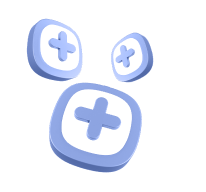
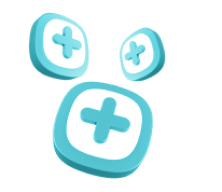
Adjust Scan QR Code screen according to the spec

Changed region(s): [[0.1165, 0.0625, 0.7573, 0.9375]]

diff --git a/src/pages/ScanQRCode/ScanQRCode.jsx b/src/pages/ScanQRCode/ScanQRCode.jsx
@@ -7,7 +7,7 @@ import useQrCode from '../../hooks/qrCode';
 import PageBase from '../PageBase/PageBase';
 import CameraContainer from './components/CameraContainer';
 import ResultView from './components/ResultView';
-import Button from '../../components/Button/Button';
+import CancelButton from '../../components/CancelButton';
 
 import AddImage from './assets/AddImage.png';
 
@@ -35,16 +35,16 @@ function ScanQRCode() {
         <Image className="w-52 -ml-4" source={AddImage} />
         <View className="w-36 mt-8">
           <Text className="text-3xl font-bold">
-            <Text className="text-dull-lavender">Scan{'\r\n'}</Text>QR Code
+            <Text className="text-pacific-blue">Scan{'\r\n'}</Text>QR Code
           </Text>
         </View>
       </View>
       <View className="bg-alabaster h-full rounded-t-3xl">
-        <View className="flex flex-col justify-center space-y-4 mt-10">
+        <View className="flex flex-col justify-center space-y-4 mt-10 p-6">
           <View className="flex items-center w-full h-64 px-2">
             <CameraContainer onResult={onResult} />
           </View>
-          <Button
+          <CancelButton
             margins="mx-2 mt-4"
             onPress={() => navigate('/')}
             title="Stop Scanning"

diff --git a/src/components/Button/Button.jsx b/src/components/Button/Button.jsx
@@ -7,7 +7,7 @@ function Button({ onPress, title, icon, margins }) {
     return (
       <TouchableOpacity
         onPress={onPress}
-        className={`bg-cornflower rounded-lg ${margins}`}
+        className={`bg-pacific-blue rounded-2xl ${margins}`}
       >
         <View className="flex flex-row justify-between items-center h-14">
           <Text className="flex-1 text-white text-center font-bold">
@@ -20,7 +20,7 @@ function Button({ onPress, title, icon, margins }) {
 
   return (
     <TouchableOpacity
-      className={`bg-cornflower rounded-lg ${margins}`}
+      className={`bg-pacific-blue rounded-2xl ${margins}`}
       onPress={onPress}
     >
       <View className="flex flex-row justify-between items-center h-14">

diff --git a/src/pages/ScanQRCode/components/CameraContainer.jsx b/src/pages/ScanQRCode/components/CameraContainer.jsx
@@ -19,13 +19,20 @@ function CameraContainer({ onResult }) {
   };
 
   if (!permission) {
-    return <View />;
-  }
-  if (!permission.granted) {
     return (
       <View>
         <Text style={{ textAlign: 'center' }}>
-          We need your permission to show the camera
+          We need your permission to use the camera. Go into Settings to allow
+          it.
+        </Text>
+      </View>
+    );
+  }
+  if (!permission.granted) {
+    return (
+      <View className="mt-24">
+        <Text style={{ textAlign: 'center', marginBottom: 16 }}>
+          We need your permission to use the camera
         </Text>
         <Button onPress={requestPermission} title="Grant Permission" />
       </View>

diff --git a/src/components/CancelButton.jsx b/src/components/CancelButton.jsx
@@ -1,0 +1,21 @@
+import React from 'react';
+import { TouchableOpacity, View, Text, Image } from 'react-native';
+
+import CancelIcon from '../assets/CancelIcon.png';
+
+// eslint-disable-next-line react/prop-types
+function CancelButton({ onPress, title, margins }) {
+  return (
+    <TouchableOpacity
+      className={`bg-mercury rounded-2xl px-6 ${margins}`}
+      onPress={onPress}
+    >
+      <View className="flex flex-row justify-between items-center h-14">
+        <Image className="flex-none w-6 h-6" source={CancelIcon} />
+        <Text className="flex-1 text-white text-center font-bold">{title}</Text>
+      </View>
+    </TouchableOpacity>
+  );
+}
+
+export default CancelButton;

diff --git a/tailwind.config.js b/tailwind.config.js
@@ -25,6 +25,9 @@ module.exports = {
         'dusty-gray': {
           DEFAULT: '#969696',
         },
+        mercury: {
+          DEFAULT: '#E3E3E3',
+        },
       },
     },
   },
